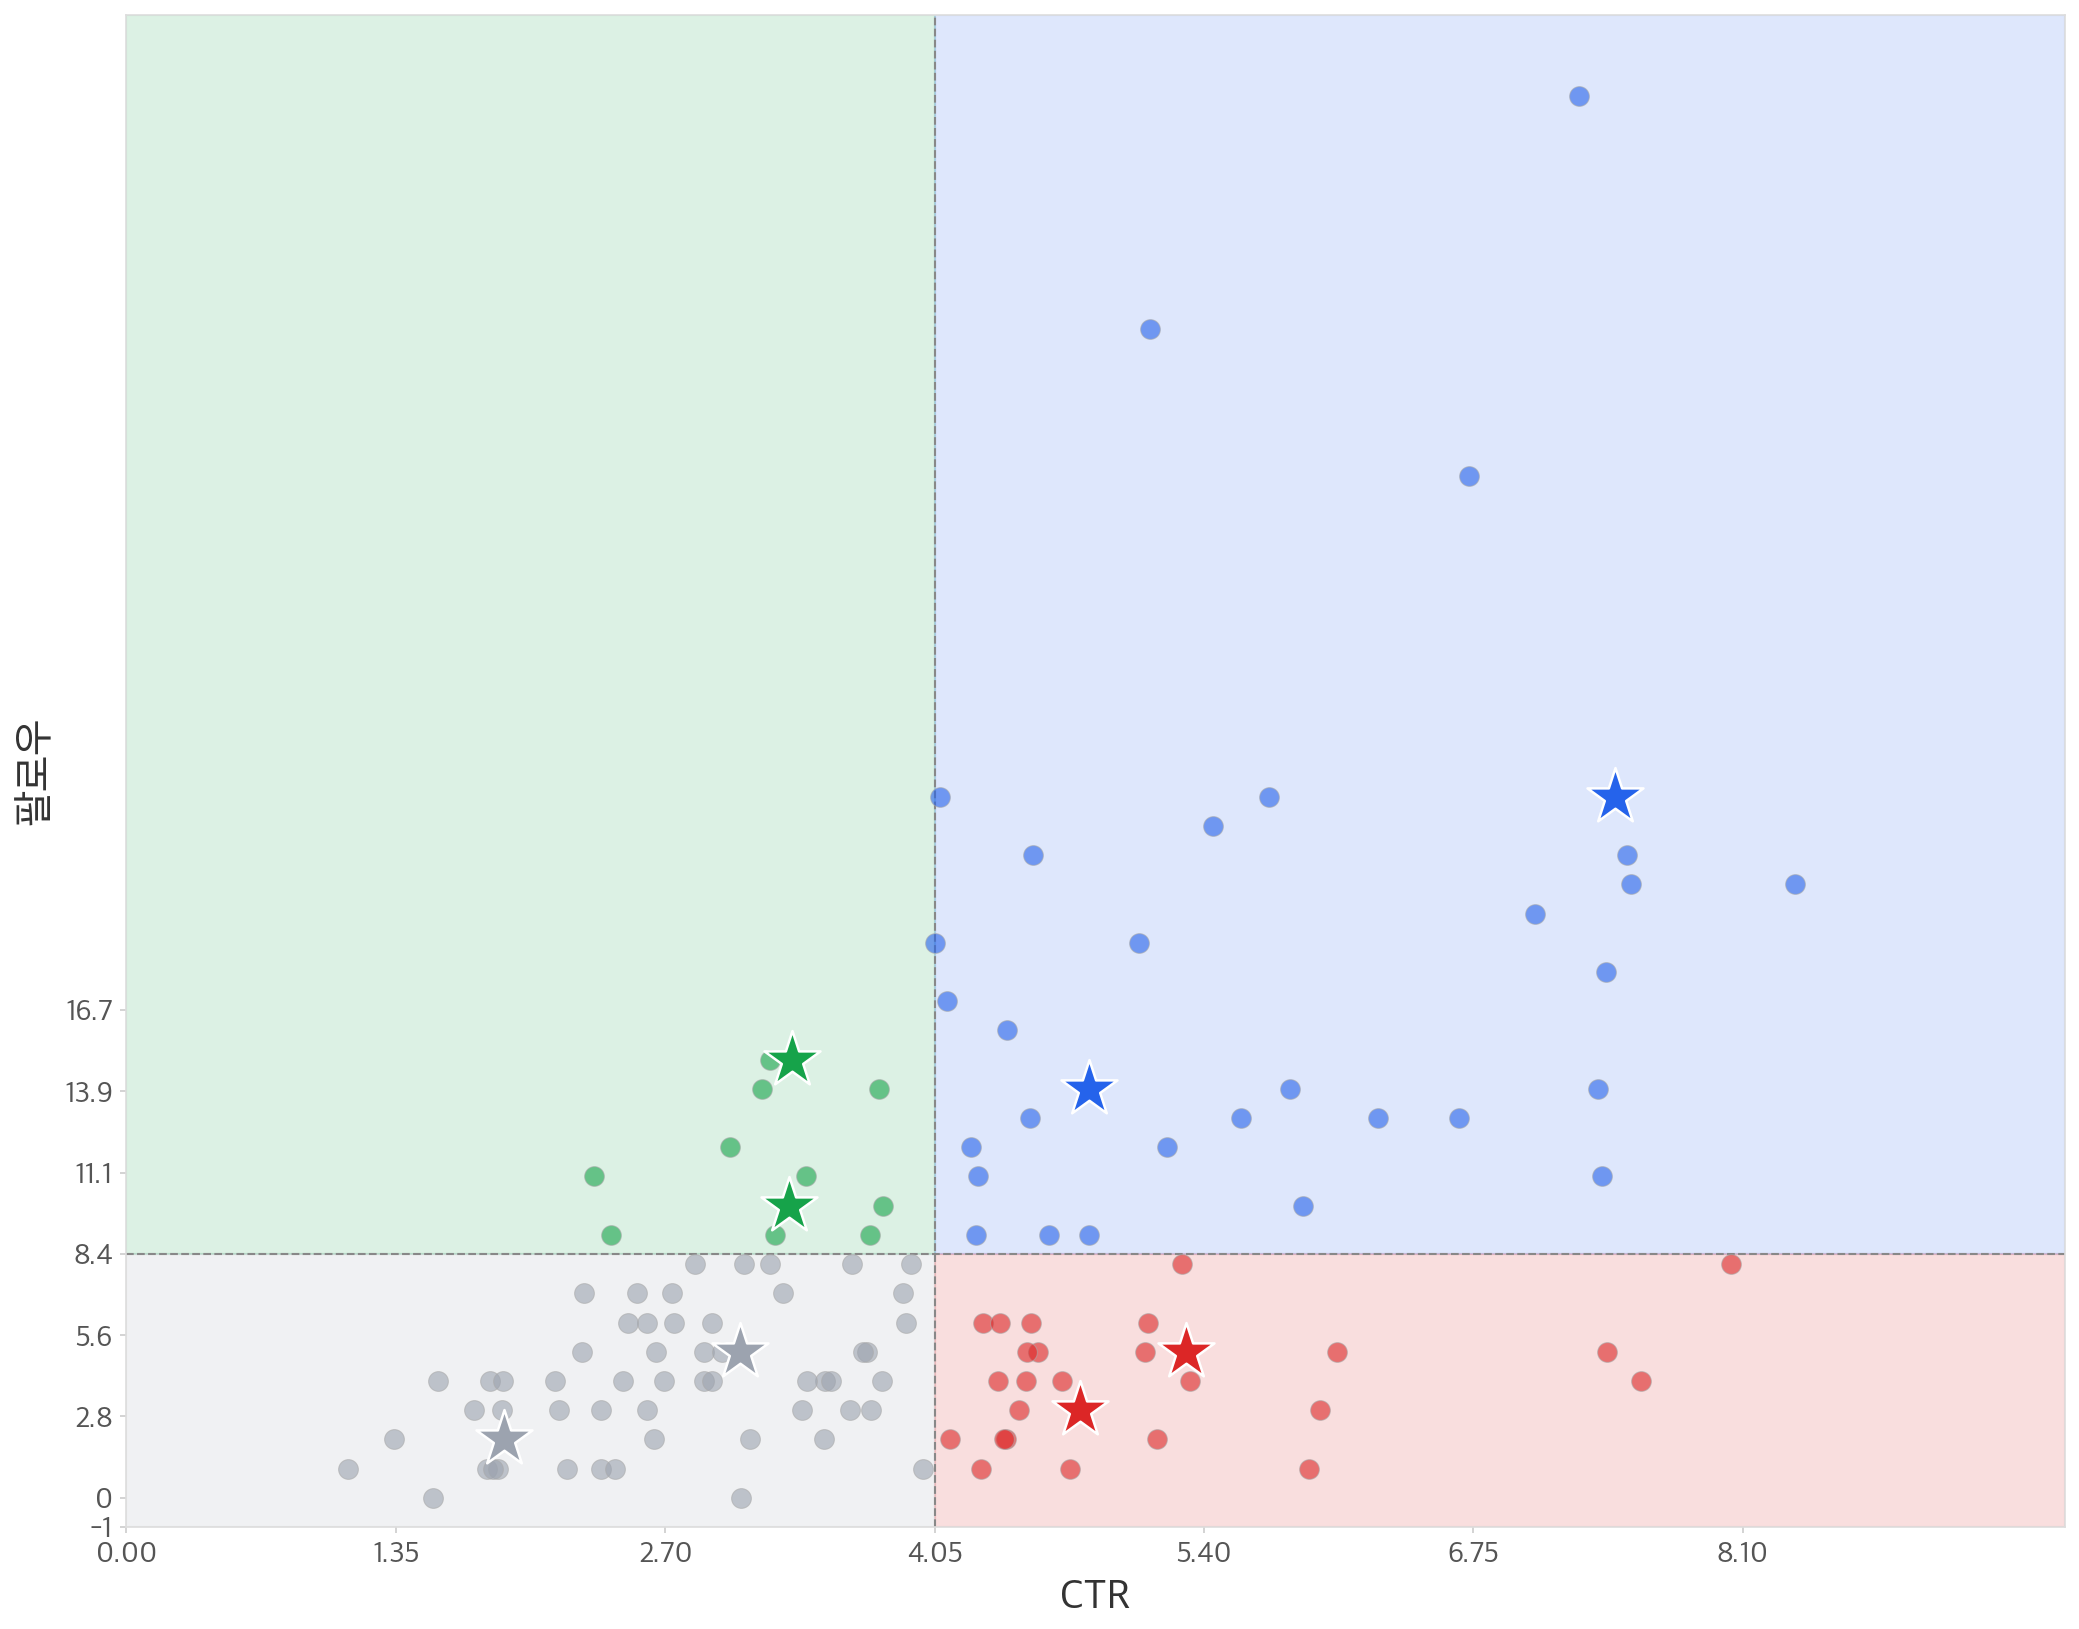
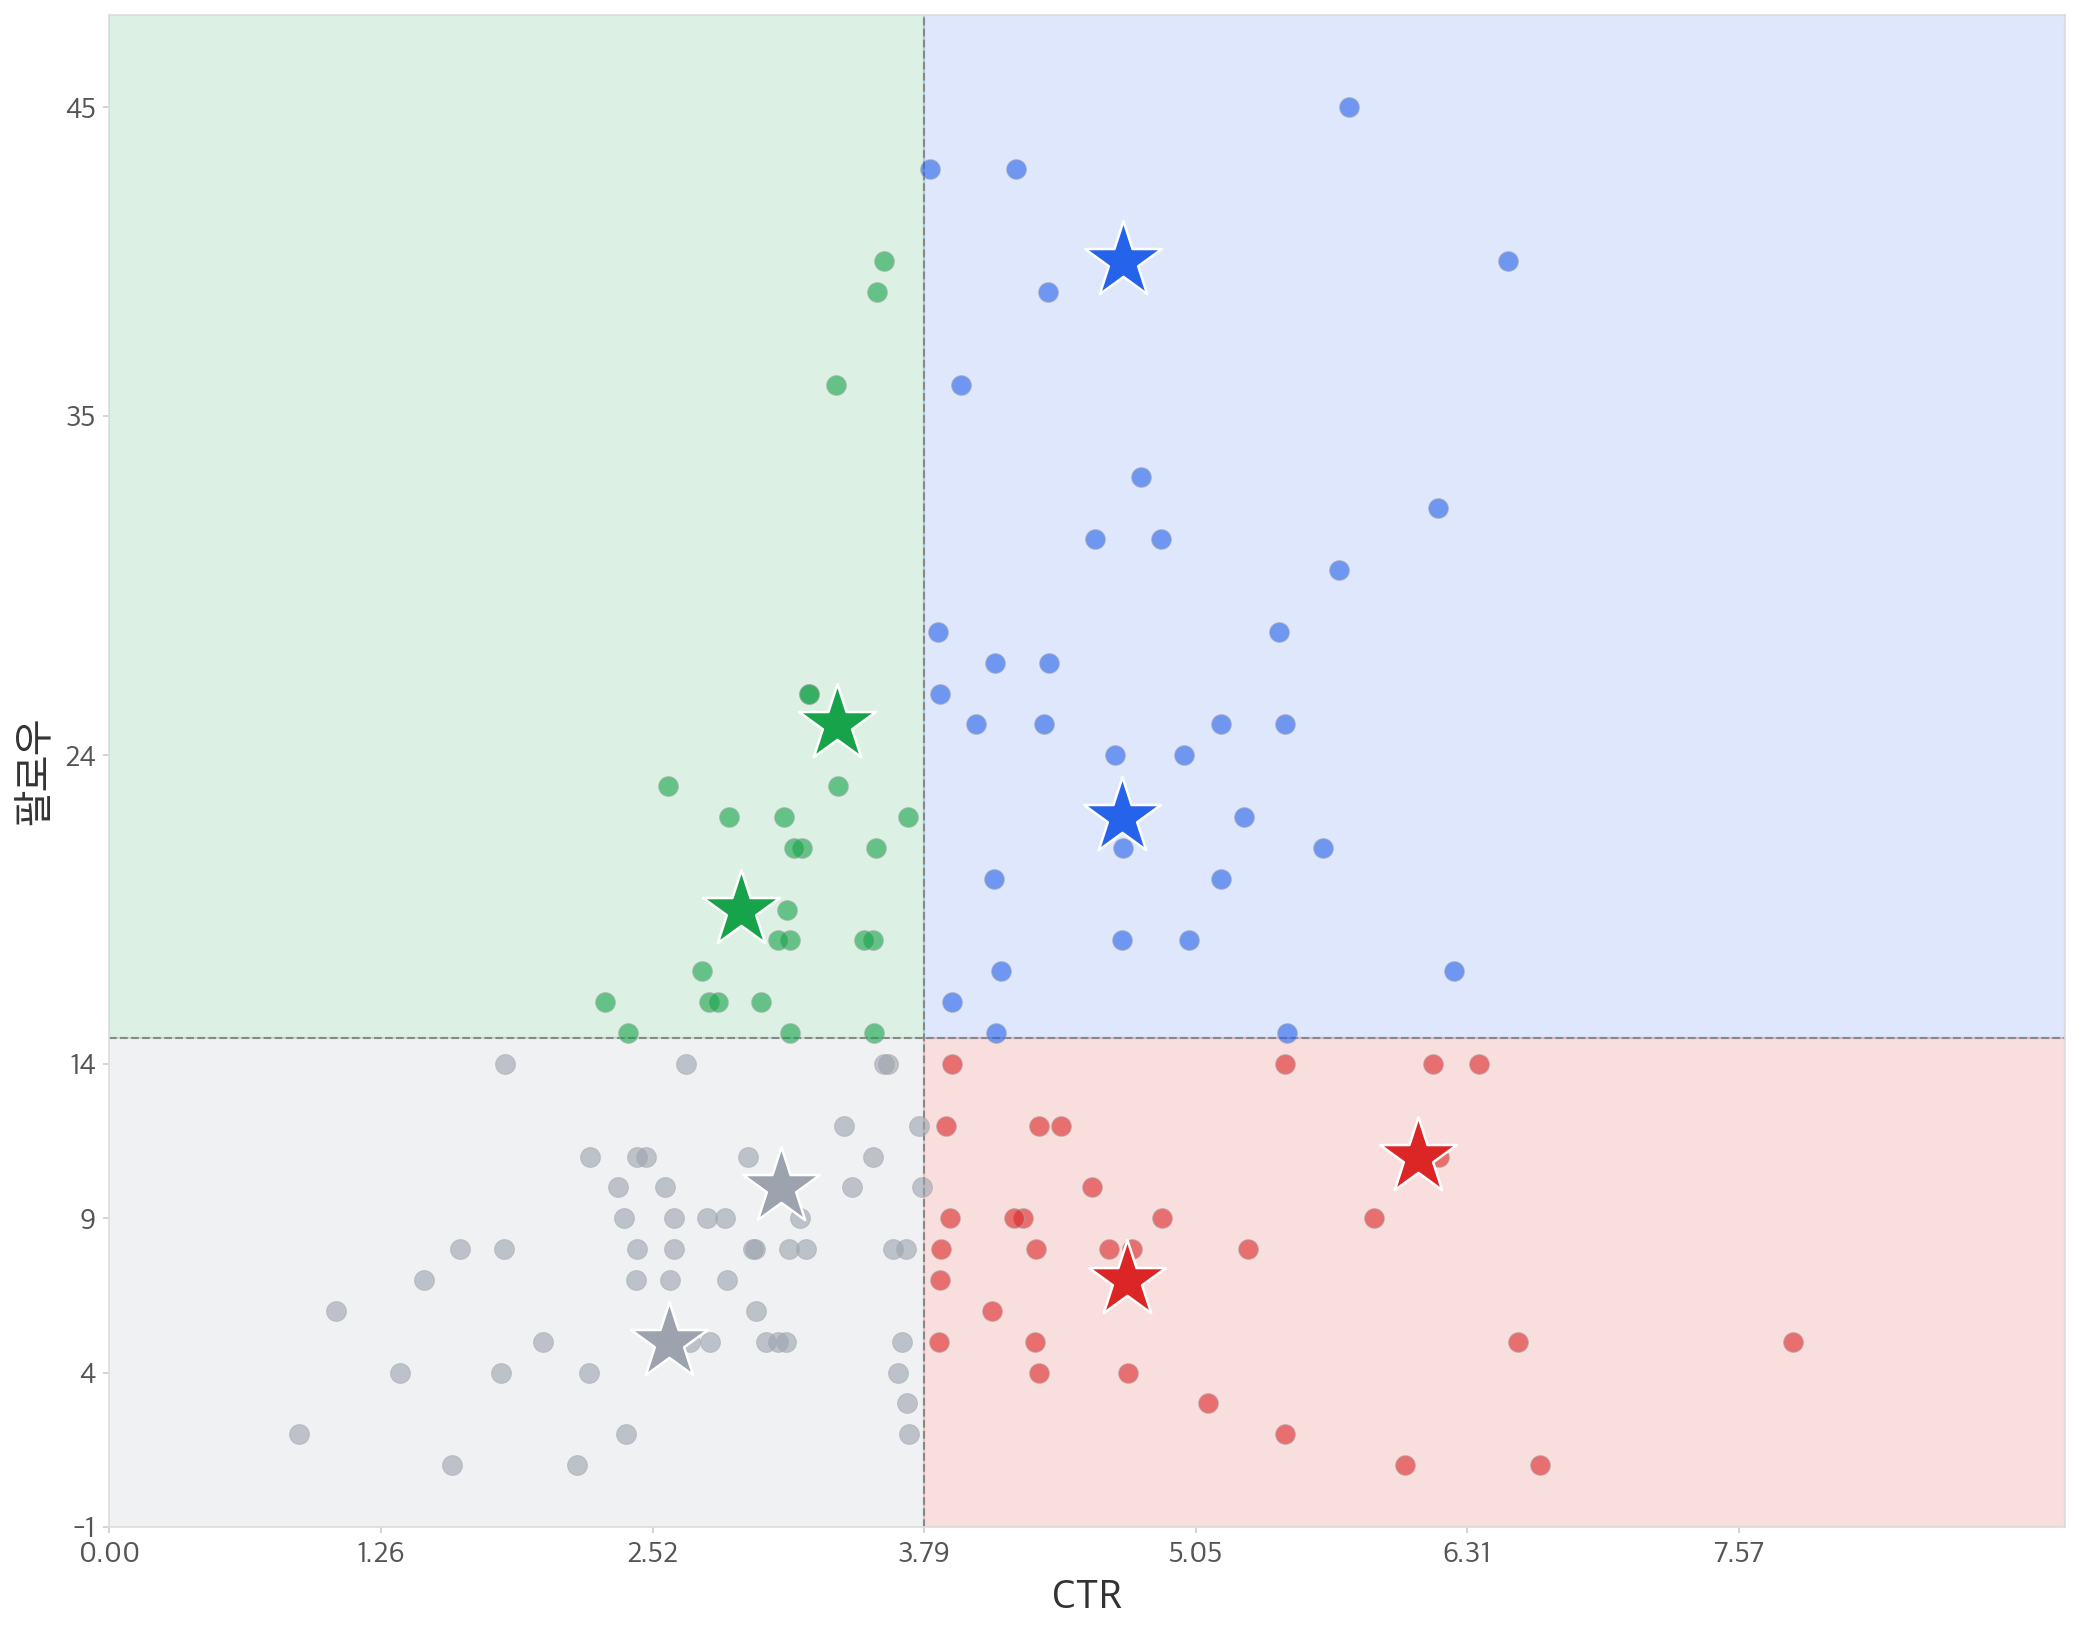
260703_2

diff --git a/templates/template.html b/templates/template.html
@@ -64,7 +64,6 @@
         {% if item.thumbnail %}
         <div class="quadrant-thumb">
           <img src="{{ item.thumbnail }}" alt="{{ item.media_type }}">
-          {% if item.media_type %}<span class="quadrant-thumb__label">{{ item.media_type }}</span>{% endif %}
         </div>
         {% else %}
         <div class="quadrant-thumb quadrant-thumb--empty" style="background:{{ panel.bg }};">

diff --git a/scripts/visualizer.py b/scripts/visualizer.py
@@ -2395,24 +2395,33 @@ def render_ctr_follows_scatter_chart(
         v = ctr_median + i * x_step
         if v <= x_max: _add_tick(x_ticks, v)
 
-    # --- Y축 범위 및 눈금 ---
+    # --- Y축 범위 및 눈금 (팔로우: 전부 정수, 최저값 -1 고정) ---
     if follows_max <= 0:
         y_min, y_max = -1.0, 1.0
-        y_ticks = [-1.0, 0.0, 1.0]
+        y_ticks = [-1, 0, 1]
     else:
-        y_min = -1.0
-        y_step = follows_median / 3.0 if follows_median > 0 else follows_max / 3.0
-        if y_step <= 0: y_step = 1.0
-        y_max = follows_max + y_step
+        y_min = -1
+        mean_int = int(follows_median)            # 평균은 소숫점 버리고 정수로 (내림)
+        max_int = int(round(follows_max))
+        if max_int <= mean_int:
+            max_int = mean_int + 1                 # 역전/0나눔 방지용 안전장치
 
-        y_ticks = [-1.0]
-        for i in range(3, 0, -1):
-            v = follows_median - i * y_step
-            if v >= 0: _add_tick(y_ticks, v)
-        _add_tick(y_ticks, follows_median)
-        for i in range(1, 4):
-            v = follows_median + i * y_step
-            if v <= y_max: _add_tick(y_ticks, v)
+        y_ticks = [y_min]
+        step_low = (mean_int - y_min) / 3.0        # -1 ~ 평균 사이 2개
+        if step_low > 0:
+            for i in (1, 2):
+                _add_tick(y_ticks, round(y_min + i * step_low))
+        _add_tick(y_ticks, mean_int)
+
+        step_high = (max_int - mean_int) / 3.0     # 평균 ~ 최댓값 사이 2개
+        if step_high > 0:
+            for i in (1, 2):
+                _add_tick(y_ticks, round(mean_int + i * step_high))
+        _add_tick(y_ticks, max_int)
+
+        y_ticks = sorted(set(int(round(v)) for v in y_ticks))
+        pad = max(1, round(step_high / 4)) if step_high > 0 else 1
+        y_max = max_int + pad
 
     fig, ax_scatter = plt.subplots(figsize=figsize, facecolor="white")
 
@@ -2436,7 +2445,7 @@ def render_ctr_follows_scatter_chart(
         for rep in reps:
             ax_scatter.scatter(
                 rep["ctr"], rep["follows"],
-                color=QUAD_COLORS[q], marker="*", s=800, edgecolors="white", linewidths=1.2, zorder=3,
+                color=QUAD_COLORS[q], marker="*", s=1500, edgecolors="white", linewidths=1.2, zorder=3,
             )
 
     ax_scatter.set_xlim(0, x_max)
@@ -2449,7 +2458,7 @@ def render_ctr_follows_scatter_chart(
         ax_scatter.set_xticklabels([f"{v:.2f}" for v in x_ticks], fontsize=14, color="#555555")
     if y_ticks:
         ax_scatter.set_yticks(y_ticks)
-        ax_scatter.set_yticklabels([f"{int(v)}" if v == int(v) else f"{v:.1f}" for v in y_ticks], fontsize=14, color="#555555")
+        ax_scatter.set_yticklabels([f"{int(v)}" for v in y_ticks], fontsize=14, color="#555555")
 
     ax_scatter.tick_params(axis="both", length=3, color="#cccccc")
     for spine in ax_scatter.spines.values():

diff --git a/main.py b/main.py
@@ -506,12 +506,12 @@ def run():
     start_time = time.time()
 
     config = {
-        "target_id": "21", # account_id
-        "fb_ad_account_id":"act_1622583648427159",
-        "start":"2025-12-29", #YYYY-MM-DD
-        "end": "2026-06-28",
-        "main_age": ["25-34", "35-44"],
-        "main_gender": "", # male, female
+        "target_id": "12", # account_id
+        "fb_ad_account_id":"act_1008886398030550",
+        "start":"2025-10-29", #YYYY-MM-DD
+        "end": "2026-05-31",
+        "main_age": ["18-24", "25-34"],
+        "main_gender": "female", # male, female
         "avoid_age": "",
         "avoid_gender": "",
     }
@@ -532,7 +532,7 @@ def run():
                     avoid_age=avoid_age, avoid_gender=avoid_gender)
     
     report_path = "json_reports/integrated_report.json"
-    theme_color = "#1D72FF"
+    theme_color = "#000000"
 
     report_json = _load_report(report_path)
     _apply_display_predicate_suffix(report_json)
